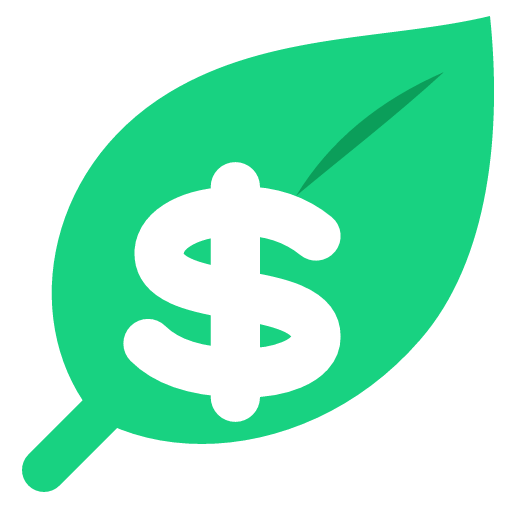
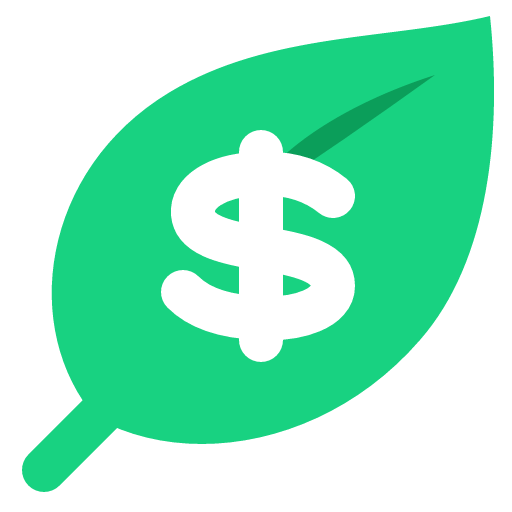
Center the dollar sign in the leaf and use TaskMint's vein
The dollar sat low and to the left, near the stem, squeezed by a vein
that started where the leaf's middle is. It now sits where it has the
most room in the leaf (centre 258,246, at 1.0x), as TaskMint's check
does. The vein is traced from TaskMint's mark.png, its size and place,
and runs behind the dollar.

Re-rendered with pnpm brand: only the leaf's PNGs change; the app icon,
favicon and tray icon don't use the leaf.

Changed region(s): [[0.2188, 0.1562, 0.8438, 0.8438], [0.4062, 0.375, 0.4688, 0.4375], [0.8438, 0.125, 0.875, 0.1562]]

diff --git a/changes/centered-logo-dollar.md b/changes/centered-logo-dollar.md
@@ -1,0 +1,7 @@
+---
+bump: patch
+type: Fixed
+---
+The dollar sign in the BudgetMint leaf now sits in the middle of the leaf,
+as TaskMint's check does, instead of low and to the left, and the leaf's
+vein matches TaskMint's.
